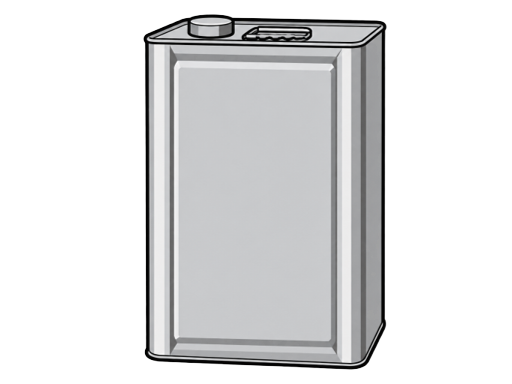
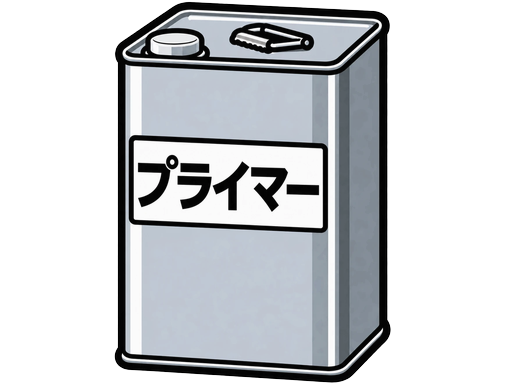
材料の絵を差し替え：プライマー
Claude-Session: https://claude.ai/code/session_01RqS8ryZ4NX9tKMiG8XzpXY

diff --git a/index.html b/index.html
@@ -395,7 +395,7 @@ nav, nav#nav{overflow:visible; padding-top:2px;}
 
 <!-- 版の表示：スマホに届いている中身がどれかを、お互いに確認するための小さな印。
      不要になったらこの1行と #nnver の指定を消してください。 -->
-<div id="nnver">v2026-10-03 x</div>
+<div id="nnver">v2026-10-03 y</div>
 <script>
 /* ============ 実機の計測結果を表示（原因調査用・2026-07-28） ============
    数字の意味（単位はミリ秒）
@@ -746,7 +746,7 @@ nav, nav#nav{justify-content:center !important; padding-left:6px !important; pad
    古いものが出続けることがある。そこで ver.txt（数バイト）だけを
    毎回見に行き、公開版と違っていたら保存分を捨てて1回だけ読み直す。
    ★公開のたびに ver.txt と、下の NN_VER を同じ文字に更新すること。 */
-const NN_VER='2026-10-03x';
+const NN_VER='2026-10-03y';
 /* ============ 表示にかかった時間の記録（原因調査用・2026-07-28） ============
    スマホの実機でどこに時間がかかっているかを数字で出す。
    ・net  ＝ページを要求してから最初の返事が来るまで（通信の待ち）
@@ -1963,7 +1963,7 @@ html:not([data-nnphone="1"]) nav#nav .ni.hasimg.on:hover{transform:scale(1.10) !
 <script src="./kou_hq.js?v=2026-09-26q"></script>
 <script src="./nn_select.js?v=2026-09-25n"></script>
 <script src="./nn_scrolllock.js?v=2026-09-25c"></script>
-<script src="./nn_matill.js?v=2026-10-03w"></script>
+<script src="./nn_matill.js?v=2026-10-03y"></script>
 <script src="./nn_master.js?v=2026-09-29i"></script>
 <script src="./nn_photos.js?v=2026-09-29h"></script>
 <script src="./nn_seikyu.js?v=2026-09-29g"></script>

diff --git a/kirokucho_demo.html b/kirokucho_demo.html
@@ -4842,7 +4842,7 @@ nav, nav#nav{justify-content:center !important; padding-left:6px !important; pad
    古いものが出続けることがある。そこで ver.txt（数バイト）だけを
    毎回見に行き、公開版と違っていたら保存分を捨てて1回だけ読み直す。
    ★公開のたびに ver.txt と、下の NN_VER を同じ文字に更新すること。 */
-const NN_VER='2026-10-03x';
+const NN_VER='2026-10-03y';
 /* ============ 表示にかかった時間の記録（原因調査用・2026-07-28） ============
    スマホの実機でどこに時間がかかっているかを数字で出す。
    ・net  ＝ページを要求してから最初の返事が来るまで（通信の待ち）
@@ -9645,7 +9645,7 @@ html body #dashboard .dash-settings-btn{display:inline-flex;align-items:center;g
 <script src="./kou_hq.js?v=2026-09-26q"></script>
 <script src="./nn_select.js?v=2026-09-25n"></script>
 <script src="./nn_scrolllock.js?v=2026-09-25c"></script>
-<script src="./nn_matill.js?v=2026-10-03w"></script>
+<script src="./nn_matill.js?v=2026-10-03y"></script>
 <script src="./nn_master.js?v=2026-09-29i"></script>
 <!-- ★2026-09-25a スマホ：新規物件登録を見直し（本人の指摘4点）
      ①日付欄（着工日など）が隣の列へはみ出して重なる → iPhoneの日付欄は固有の幅を持つので、見た目の既定をやめて幅100%に

diff --git a/zairyo_toroku.html b/zairyo_toroku.html
@@ -503,7 +503,7 @@ nav::-webkit-scrollbar{display:none;}
 }
 </style>
 <link rel="prefetch" href="./index.html"><link rel="prefetch" href="./kirokucho_demo.html"><link rel="prefetch" href="./genba_map_v36.html"><link rel="prefetch" href="./hacchu.html"><link rel="prefetch" href="./camera.html"><link rel="prefetch" href="./kokkosho.html">
-<script src="./nn_matill.js?v=2026-10-03w"></script>   <!-- ★§551 一覧の最初の描画より先に読む（あとだと一覧に絵が出ない） -->
+<script src="./nn_matill.js?v=2026-10-03y"></script>   <!-- ★§551 一覧の最初の描画より先に読む（あとだと一覧に絵が出ない） -->
 </head>
 <body>
 
@@ -1590,7 +1590,7 @@ nav, nav#nav{justify-content:center !important; padding-left:6px !important; pad
    古いものが出続けることがある。そこで ver.txt（数バイト）だけを
    毎回見に行き、公開版と違っていたら保存分を捨てて1回だけ読み直す。
    ★公開のたびに ver.txt と、下の NN_VER を同じ文字に更新すること。 */
-const NN_VER='2026-10-03x';
+const NN_VER='2026-10-03y';
 /* ============ 表示にかかった時間の記録（原因調査用・2026-07-28） ============
    スマホの実機でどこに時間がかかっているかを数字で出す。
    ・net  ＝ページを要求してから最初の返事が来るまで（通信の待ち）

diff --git a/camera.html b/camera.html
@@ -1271,7 +1271,7 @@ nav, nav#nav{justify-content:center !important; padding-left:6px !important; pad
    古いものが出続けることがある。そこで ver.txt（数バイト）だけを
    毎回見に行き、公開版と違っていたら保存分を捨てて1回だけ読み直す。
    ★公開のたびに ver.txt と、下の NN_VER を同じ文字に更新すること。 */
-const NN_VER='2026-10-03x';
+const NN_VER='2026-10-03y';
 /* ============ 表示にかかった時間の記録（原因調査用・2026-07-28） ============
    スマホの実機でどこに時間がかかっているかを数字で出す。
    ・net  ＝ページを要求してから最初の返事が来るまで（通信の待ち）

diff --git a/genba_map_v36.html b/genba_map_v36.html
@@ -5019,7 +5019,7 @@ nav, nav#nav{justify-content:center !important; padding-left:6px !important; pad
    古いものが出続けることがある。そこで ver.txt（数バイト）だけを
    毎回見に行き、公開版と違っていたら保存分を捨てて1回だけ読み直す。
    ★公開のたびに ver.txt と、下の NN_VER を同じ文字に更新すること。 */
-const NN_VER='2026-10-03x';
+const NN_VER='2026-10-03y';
 /* ============ 表示にかかった時間の記録（原因調査用・2026-07-28） ============
    スマホの実機でどこに時間がかかっているかを数字で出す。
    ・net  ＝ページを要求してから最初の返事が来るまで（通信の待ち）

diff --git a/hacchu.html b/hacchu.html
@@ -1103,7 +1103,7 @@ nav, nav#nav{justify-content:center !important; padding-left:6px !important; pad
    古いものが出続けることがある。そこで ver.txt（数バイト）だけを
    毎回見に行き、公開版と違っていたら保存分を捨てて1回だけ読み直す。
    ★公開のたびに ver.txt と、下の NN_VER を同じ文字に更新すること。 */
-const NN_VER='2026-10-03x';
+const NN_VER='2026-10-03y';
 /* ============ 表示にかかった時間の記録（原因調査用・2026-07-28） ============
    スマホの実機でどこに時間がかかっているかを数字で出す。
    ・net  ＝ページを要求してから最初の返事が来るまで（通信の待ち）

diff --git a/kokkosho.html b/kokkosho.html
@@ -2451,7 +2451,7 @@ nav, nav#nav{justify-content:center !important; padding-left:6px !important; pad
    古いものが出続けることがある。そこで ver.txt（数バイト）だけを
    毎回見に行き、公開版と違っていたら保存分を捨てて1回だけ読み直す。
    ★公開のたびに ver.txt と、下の NN_VER を同じ文字に更新すること。 */
-const NN_VER='2026-10-03x';
+const NN_VER='2026-10-03y';
 /* ============ 表示にかかった時間の記録（原因調査用・2026-07-28） ============
    スマホの実機でどこに時間がかかっているかを数字で出す。
    ・net  ＝ページを要求してから最初の返事が来るまで（通信の待ち）

diff --git a/library.html b/library.html
@@ -1170,7 +1170,7 @@ nav, nav#nav{justify-content:center !important; padding-left:6px !important; pad
    古いものが出続けることがある。そこで ver.txt（数バイト）だけを
    毎回見に行き、公開版と違っていたら保存分を捨てて1回だけ読み直す。
    ★公開のたびに ver.txt と、下の NN_VER を同じ文字に更新すること。 */
-const NN_VER='2026-10-03x';
+const NN_VER='2026-10-03y';
 /* ============ 表示にかかった時間の記録（原因調査用・2026-07-28） ============
    スマホの実機でどこに時間がかかっているかを数字で出す。
    ・net  ＝ページを要求してから最初の返事が来るまで（通信の待ち）

diff --git a/shiyo_toroku.html b/shiyo_toroku.html
@@ -1668,7 +1668,7 @@ nav, nav#nav{justify-content:center !important; padding-left:6px !important; pad
    古いものが出続けることがある。そこで ver.txt（数バイト）だけを
    毎回見に行き、公開版と違っていたら保存分を捨てて1回だけ読み直す。
    ★公開のたびに ver.txt と、下の NN_VER を同じ文字に更新すること。 */
-const NN_VER='2026-10-03x';
+const NN_VER='2026-10-03y';
 /* ============ 表示にかかった時間の記録（原因調査用・2026-07-28） ============
    スマホの実機でどこに時間がかかっているかを数字で出す。
    ・net  ＝ページを要求してから最初の返事が来るまで（通信の待ち）

diff --git a/yougo.html b/yougo.html
@@ -1406,7 +1406,7 @@ nav, nav#nav{justify-content:center !important; padding-left:6px !important; pad
    古いものが出続けることがある。そこで ver.txt（数バイト）だけを
    毎回見に行き、公開版と違っていたら保存分を捨てて1回だけ読み直す。
    ★公開のたびに ver.txt と、下の NN_VER を同じ文字に更新すること。 */
-const NN_VER='2026-10-03x';
+const NN_VER='2026-10-03y';
 /* ============ 表示にかかった時間の記録（原因調査用・2026-07-28） ============
    スマホの実機でどこに時間がかかっているかを数字で出す。
    ・net  ＝ページを要求してから最初の返事が来るまで（通信の待ち）

diff --git a/zumen_sekisan.html b/zumen_sekisan.html
@@ -6308,7 +6308,7 @@ nav, nav#nav{justify-content:center !important; padding-left:6px !important; pad
    古いものが出続けることがある。そこで ver.txt（数バイト）だけを
    毎回見に行き、公開版と違っていたら保存分を捨てて1回だけ読み直す。
    ★公開のたびに ver.txt と、下の NN_VER を同じ文字に更新すること。 */
-const NN_VER='2026-10-03x';
+const NN_VER='2026-10-03y';
 /* ============ 表示にかかった時間の記録（原因調査用・2026-07-28） ============
    スマホの実機でどこに時間がかかっているかを数字で出す。
    ・net  ＝ページを要求してから最初の返事が来るまで（通信の待ち）

diff --git a/nn_matill.js b/nn_matill.js
@@ -10,7 +10,7 @@
    ============================================================ */
 (function(){ 'use strict';
 if(window.nnMatIll) return;
-var ILL_VER='2026-10-03w';   /* ★絵を同じ名前で差し替えたら上げる（上げないと古い絵が出続ける） */
+var ILL_VER='2026-10-03y';   /* ★絵を同じ名前で差し替えたら上げる（上げないと古い絵が出続ける） */
 var KUBUN=[
  ['asphalt_compound','アスファルトコンパウンド','#6b4a2a'],
  ['primer','プライマー','#8a5a12'],
